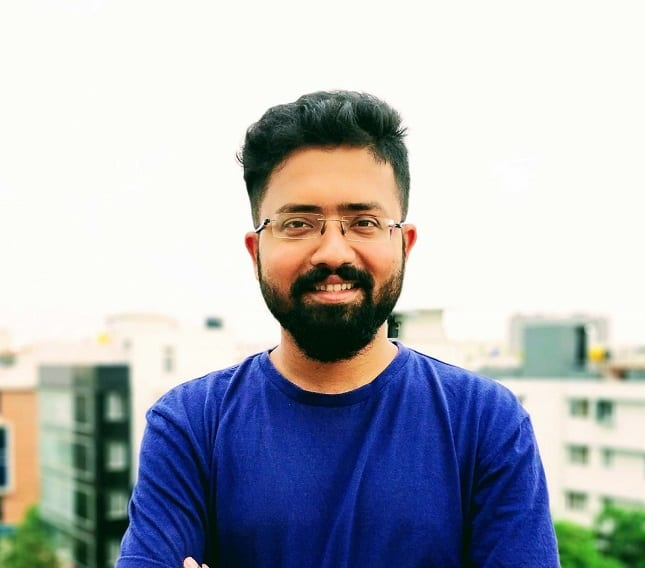
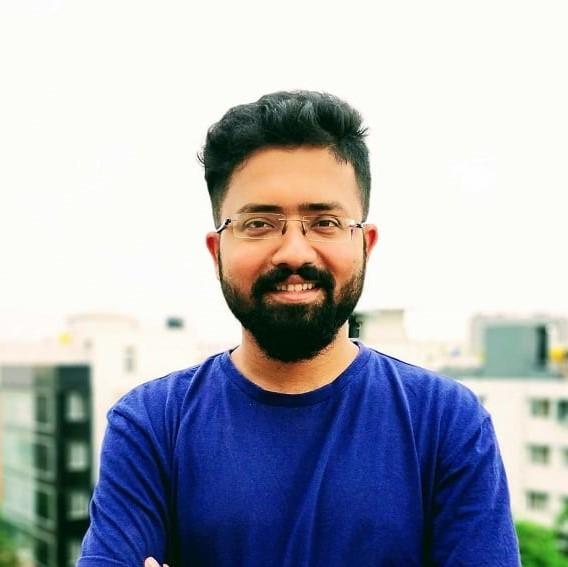
Improved images and some style changes

diff --git a/index.html b/index.html
@@ -900,18 +900,103 @@
 
             <div class="twelve columns">
 
-                <h1>Speakers
-                    <span>.</span>
+                <h1 id="heading_speakers">SPEAKERS
                 </h1>
-
-                <hr />
-                <p>
+                <!-- <p>
                     Meet our speakers
-                </p>
+                </p> -->
 
             </div>
 
         </div>
+        <!-- <section id="contact">
+
+            <div class="overlay"></div>
+
+            <div class="row narrow section-intro with-bottom-sep animate-this"> -->
+        <!-- <div class="col-twelve">
+                    <h3>Contact</h3>
+                    <h1>Our Team</h1>
+    
+                    <p class="lead">
+                        Contact us for any queries, questions, or ideas.
+                    </p>
+                </div> -->
+        <!-- <br>
+                <br>
+                <div class="services-list block-1-4 block-tab-full group">
+
+                    <div class="bgrid service-item animate-this">
+                        <div class="profile-card">
+                            <a id="bsd1" href="javascript:run_model('sd1','bsd1')">
+                                <div class="profile-img">
+                                    <img src="images/EE_Speaker/Mohandas Pai.jpg" alt="" class="lazyload speaker-pic" />
+                                </div>
+                                <div class="speaker-name">
+                                    <h2>Mohandas Pai</h2>
+                                  
+                                </div>
+                            </a>
+                        </div> -->
+        <!-- <h3 class="line-height-2">Tejas<br> Ketkar</h3>
+                        <h4 class="line-height-2">Manager
+                            <br>Media & Publicity</h4> -->
+        <!-- </div>
+
+                    <div class="bgrid service-item animate-this">
+
+                        <div class="profile-card">
+                            <a id="bsd2" href="javascript:run_model('sd2','bsd2')">
+                                <div class="profile-img">
+                                    <img src="images/EE_Speaker/Kris Gopalakrishnan.jpg" alt=""
+                                        class=" lazyload speaker-pic" />
+                                </div>
+                                <div class="speaker-name">
+                                    <h2>Kris Gopalakrishnanr</h2>
+
+                                </div>
+                            </a>
+                        </div> -->
+        <!-- <h3 class="line-height-2">Shruti <br>Vatsa</h3>
+                        <h4 class="line-height-2">Manager
+                            <br>Media & Publicity</h4> -->
+        <!-- </div> -->
+        <!-- end bgrid -->
+        <!-- 
+                    <div class="bgrid service-item animate-this">
+                        <div class="profile-card">
+                            <a id="bsd3" href="javascript:run_model('sd3','bsd3')">
+                                <div class="profile-img">
+                                    <img src="images/EE_Speaker/melissa frakman.jpg" alt=""
+                                        class="lazyload speaker-pic" />
+                                </div>
+                                <div class="speaker-name">
+                                    <h2>Melissa Frakman</h2>
+
+                                </div>
+                            </a>
+                        </div>
+
+                    </div>
+                    <div class="bgrid service-item animate-this">
+                        <div class="profile-card">
+                            <a id="bsd4" href="javascript:run_model('sd4','bsd4')">
+                                <div class="profile-img">
+                                    <img src="images/EE_Speaker/Aman Gupta.png" alt="" class="lazyload speaker-pic" />
+                                </div>
+                                <div class="speaker-name">
+                                    <h2>Aman Gupta</h2>
+
+                                </div>
+                            </a>
+                        </div>
+
+                    </div>
+                </div> -->
+        <!-- end section-intro -->
+
+        <!-- </section> -->
+        <!-- end contact -->
 
 
         <!-- start row 1-------------------------------------------------------------------------- -->

diff --git a/css/main.css b/css/main.css
@@ -2666,10 +2666,16 @@ html[data-useragent*="MSIE 10.0"] .scrolldown,
 	height: 250px;
 	border-radius: 15px 50px;
 }
-
+#heading_speakers {
+	color:teal;
+	text-align: center;
+	letter-spacing: 1px;
+	
+}
 #speakers {
 	background-color: #000;
 	background-size: contain;
+	padding: 50px 0px 50px 0px;
 }
 .speaker-name {
     text-align: center;
@@ -2677,8 +2683,11 @@ html[data-useragent*="MSIE 10.0"] .scrolldown,
 }
 
 .speaker-name h2 {
+	color: grey;
+    font-size: 1.5rem;
+	text-transform: uppercase;
     margin: 0 0 0 0;
-    color: #e4b101;
+	letter-spacing: 0.2rem;
 }
 
 .speaker-name h3 {
